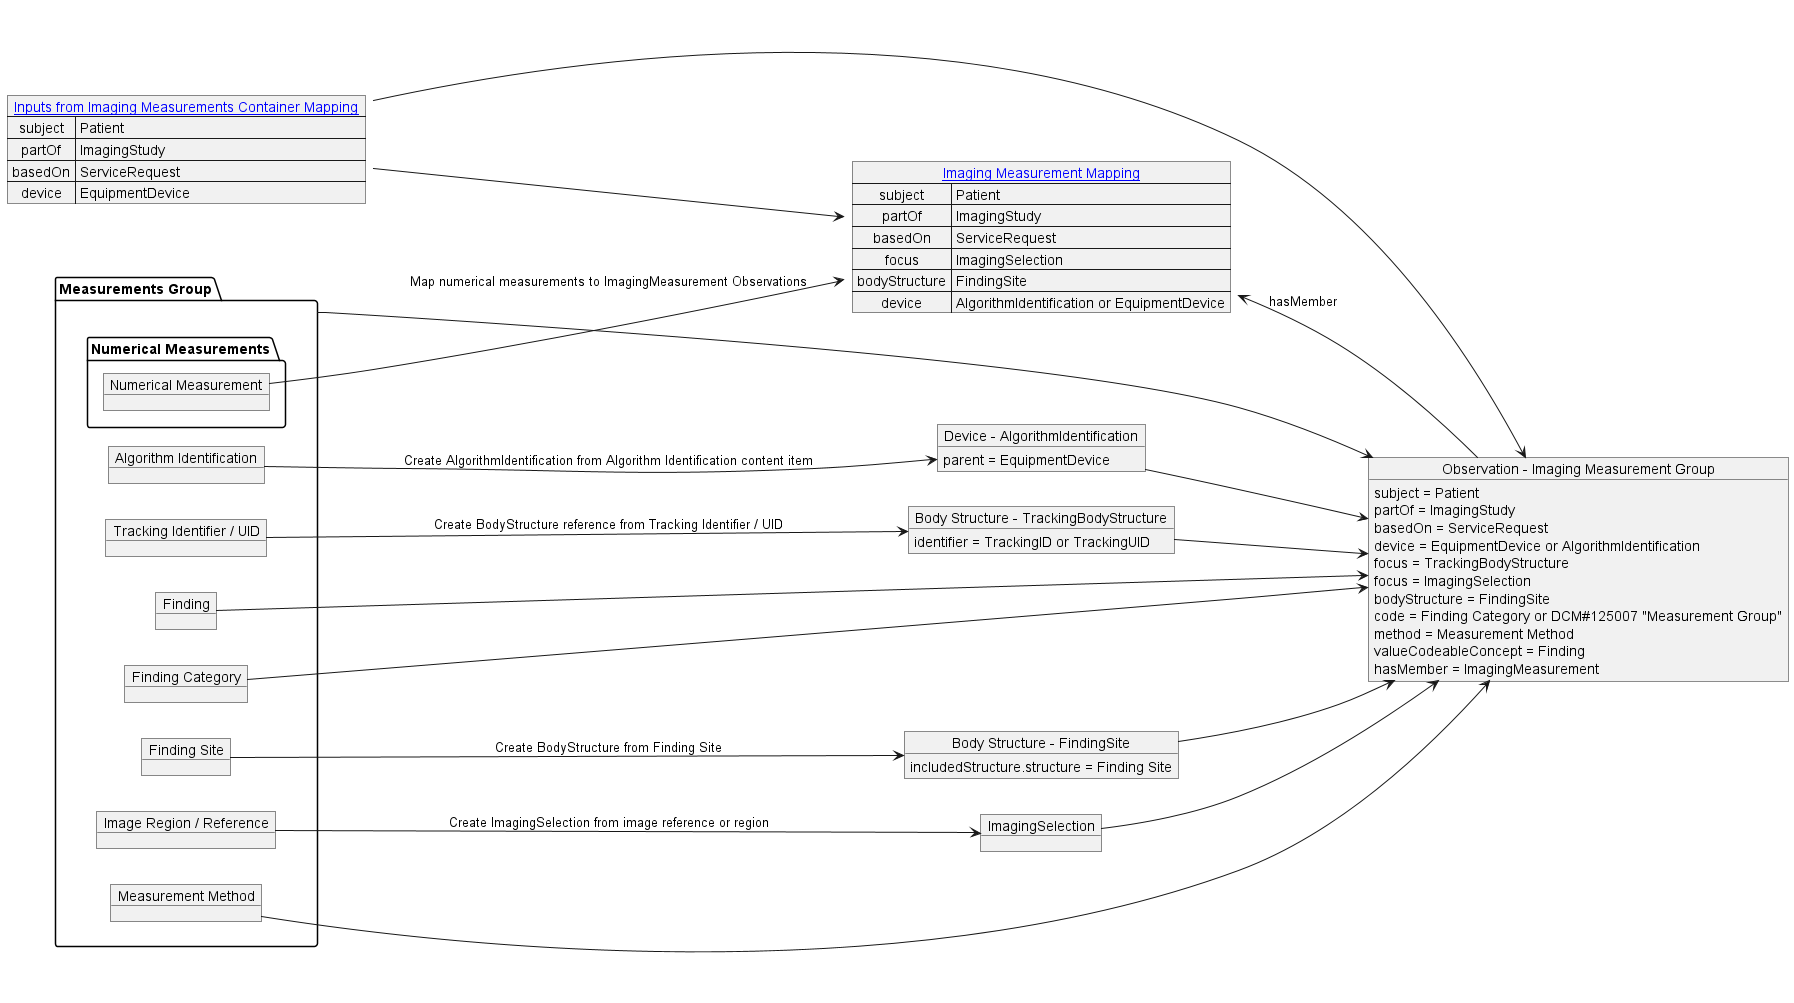
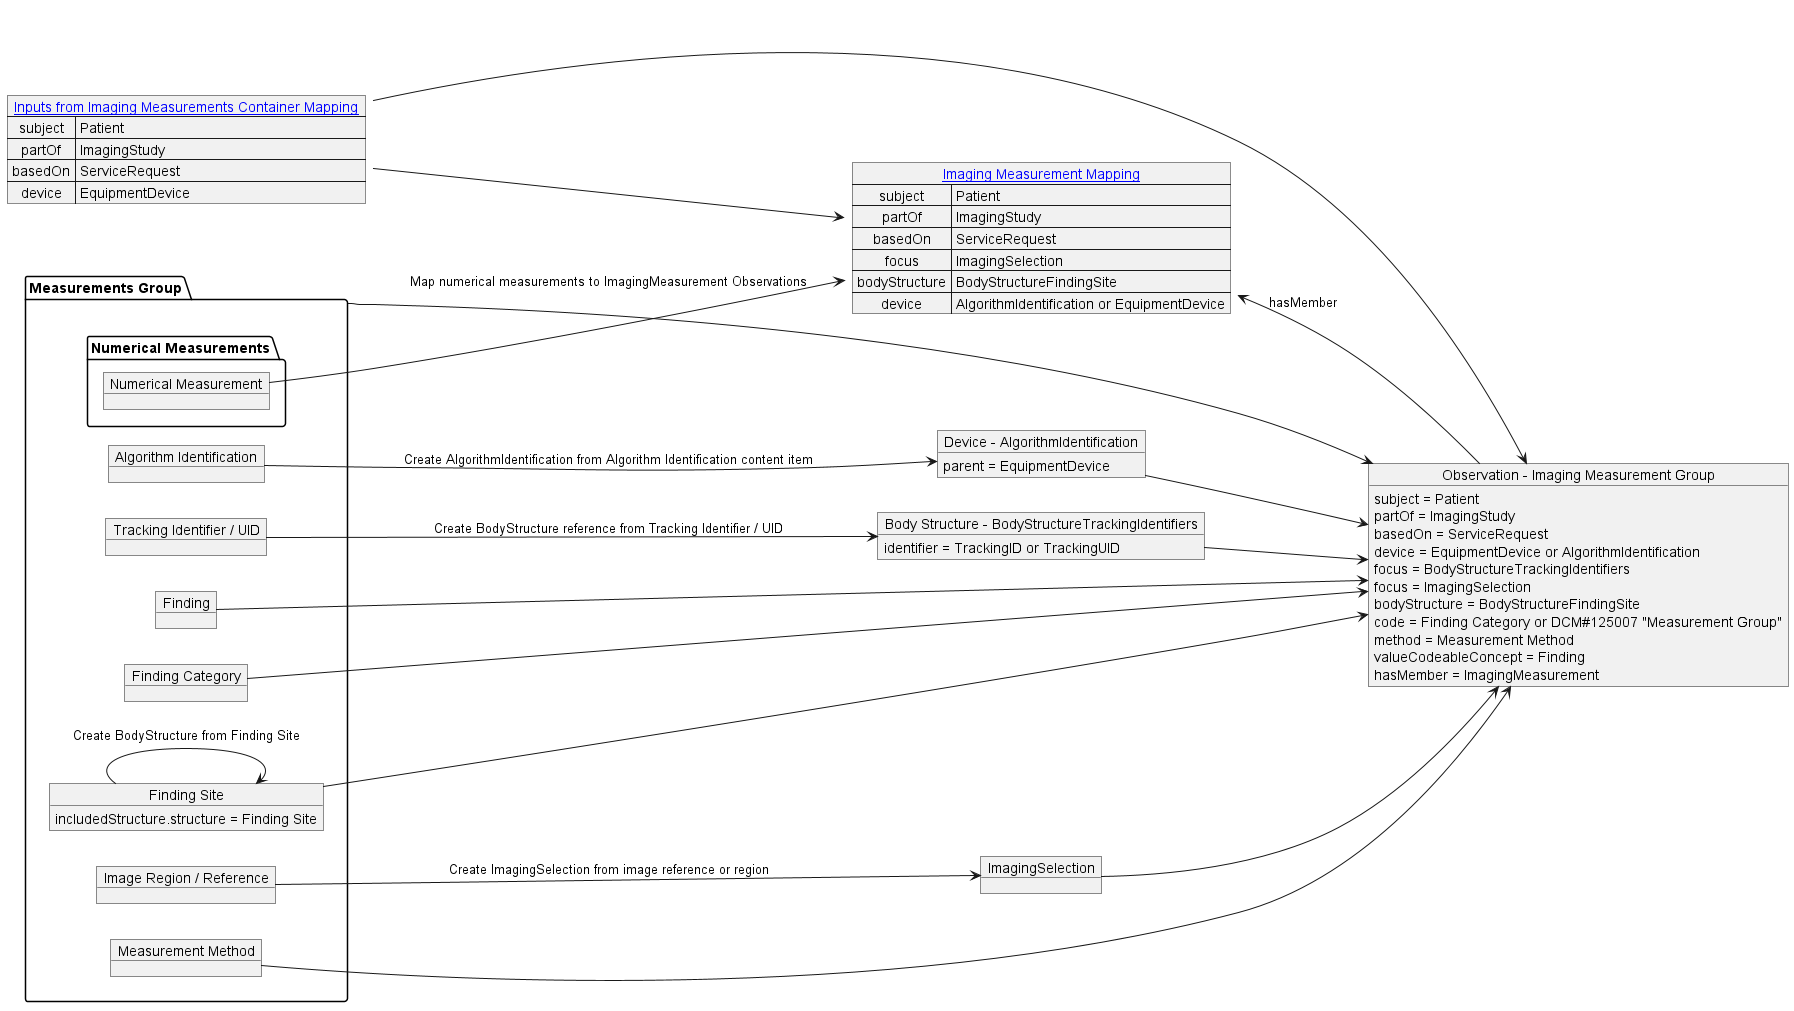
Finished mapping.md

diff --git a/input/pagecontent/mapping.md b/input/pagecontent/mapping.md
@@ -82,26 +82,26 @@ The Imaging Measurement Group contains:
 
 See also the [DICOM Imaging Measurement Group ConceptMap](ConceptMap-dicom-imaging-measurement-group-to-fhir.html).
 
-[comment]: <> (### Imaging Measurement Mapping)
+### Imaging Measurement Mapping
 
-[comment]: <> (<a name="imaging_measurement"></a>)
+<a name="imaging_measurement"></a>
 
-[comment]: <> (![Imaging Measurement Mapping]&#40;./imaging_measurement_mapping.svg&#41;{: width="100%"})
+![Imaging Measurement Mapping](./imaging_measurement_mapping.svg){: width="100%"}
 
-[comment]: <> (See also the [DICOM Imaging Measurement ConceptMap]&#40;ConceptMap-dicom-imaging-measurement-to-fhir.html&#41;.)
+See also the [DICOM Imaging Measurement ConceptMap](ConceptMap-dicom-imaging-measurement-to-fhir.html).
 
-[comment]: <> (### Imaging Qualitative Evaluation Mapping)
+### Imaging Qualitative Evaluation Mapping
 
-[comment]: <> (<a name="imaging_qualitative_evaluation"></a>)
+<a name="imaging_qualitative_evaluation"></a>
 
-[comment]: <> (![Imaging Qualitative Evaluation Mapping]&#40;./imaging_qualitative_evaluation_mapping.svg&#41;{: width="100%"})
+![Imaging Qualitative Evaluation Mapping](./imaging_qualitative_evaluation_mapping.svg){: width="100%"}
 
-[comment]: <> (See also the [DICOM Imaging Qualitative Evaluation ConceptMap]&#40;ConceptMap-dicom-imaging-qualitative-evaluation-to-fhir.html&#41;.)
+See also the [DICOM Imaging Qualitative Evaluation ConceptMap](ConceptMap-dicom-imaging-qualitative-evaluation-to-fhir.html).
 
-[comment]: <> (### Derived Imaging Measurement Mapping)
+### Derived Imaging Measurement Mapping
 
-[comment]: <> (<a name="derived_imaging_measurement"></a>)
+<a name="derived_imaging_measurement"></a>
 
-[comment]: <> (![Derived Imaging Measurement Mapping]&#40;./derived_imaging_measurement_mapping.svg&#41;{: width="100%"})
+![Derived Imaging Measurement Mapping](./derived_imaging_measurement_mapping.svg){: width="100%"}
 
-[comment]: <> (See also the [DICOM Derived Imaging Measurement ConceptMap]&#40;ConceptMap-dicom-derived-imaging-measurement-to-fhir.html&#41;.)
+See also the [DICOM Derived Imaging Measurement ConceptMap](ConceptMap-dicom-derived-imaging-measurement-to-fhir.html).

diff --git a/input/pagecontent/index.md b/input/pagecontent/index.md
@@ -36,10 +36,9 @@ This IG is organized into three main sections:
     * [DICOM SR Document Mapping](mapping.html#sr_document)
     * [Imaging Measurements Container Mapping](mapping.html#imaging_measurements_container)
     * [Imaging Measurement Group Mapping](mapping.html#imaging_measurement_group)
-
-[comment]: <> (    * [Imaging Measurement Mapping]&#40;mapping.html#imaging_measurement&#41;)
-
-[comment]: <> (    * [Imaging Qualitative Evaluation Mapping]&#40;mapping.html#imaging_qualitative_evaluation&#41;)
+    * [Imaging Measurement Mapping](mapping.html#imaging_measurement)
+    * [Imaging Qualitative Evaluation Mapping](mapping.html#imaging_qualitative_evaluation)
+    * [Derived Imaging Measurements Mapping](mapping.html#derived_imaging_measurement)
 
 * [Chapter IV](example.html): Example DICOM SR Measurement Report Mapping
     * [Patient Mapping](example.html#example_patient) - Patient Mapping Example
